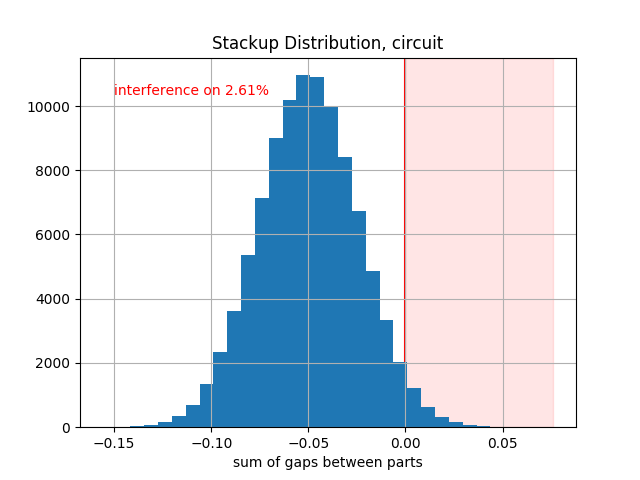
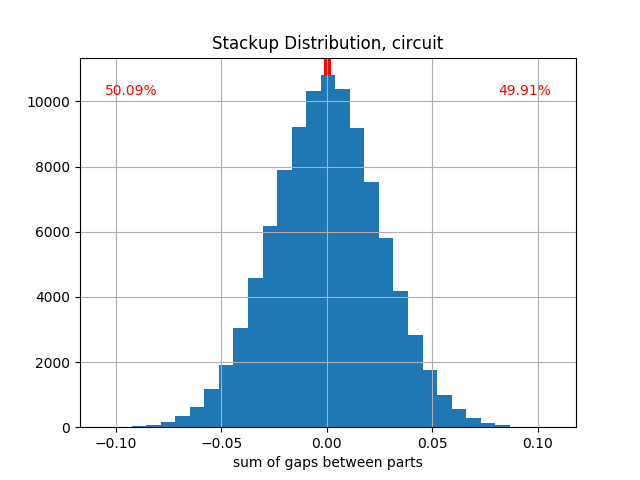
Improving documentation.

diff --git a/docs/source/usage.rst b/docs/source/usage.rst
@@ -30,10 +30,86 @@ Starting at the reference, walk around one step at a time adding the value and t
 a length of -3.0.
 
 Once the user has gotten to this point in the tolerance stack using ``tol-stack``, the distribution and
-the apparent interference should be apparent.
+the interference should be apparent.  Assuming "line-to-line" values, all of these will add up to 0.0.
 
 .. image::
    images/circuit-animation.gif
+
+Now that we know what the tolerance stackup looks like, we can start coding.  First, import the
+``tol_stack`` package components ``Part`` and ``StackPath``.
+
+.. code-block:: python
+   :linenos:
+   :emphasize-lines: 1
+
+   from tol_stack import Part, StackPath
+
+For the moment, assume that the distribution of the part variance is normal.  We will discuss other
+distributions that may commonly be encountered in manufacturing processes in another section.  We
+create each ``Part`` with the nominal dimensions and with some tolerance value.
+
+.. code-block:: python
+   :linenos:
+   :emphasize-lines: 3, 5, 6, 7
+
+   from tol_stack import Part, StackPath
+
+   size = 100000  # denotes size of the simulation
+
+   p1 = Part(name='part1', nominal_value=1.0, upper_tolerance=0.05, size=size)
+   p2 = Part(name='part2', nominal_value=2.0, upper_tolerance=0.05, size=size)
+   p3 = Part(name='part3', nominal_value=-3.0, upper_tolerance=0.05, size=size)
+
+At this point, if we wanted to see the distribution of the part variation, we could call the
+``.show_dist()`` method of ``Part``.  This parameter takes all keyword arguments accepted by
+`matplotlib.pyplot.Axes.hist() <https://matplotlib.org/3.1.1/api/_as_gen/matplotlib.axes.Axes.hist.html>`_.
+
+.. code-block:: python
+   :linenos:
+   :emphasize-lines: 9
+
+   from tol_stack import Part, StackPath
+
+   size = 100000  # denotes size of the simulation
+
+   p1 = Part(name='part1', nominal_value=1.0, upper_tolerance=0.05, size=size)
+   p2 = Part(name='part2', nominal_value=2.0, upper_tolerance=0.05, size=size)
+   p3 = Part(name='part3', nominal_value=-3.0, upper_tolerance=0.05, size=size)
+
+   p1.show_dist(density=True, bins=31)
+
+Results in:
+
+.. image::
+   images/part-distribution-normal.png
+
+Finally, we create the ``StackPath`` and add each part to it, then run the ``analyze()`` method.  Once the analysis
+is complete, we can call the ``.show_dist()`` method of the ``StackPath`` to show the percentage of units that are
+expected to fall out of tolerance.
+
+.. code-block:: python
+   :linenos:
+   :emphasize-lines: 9-11, 13, 14
+
+   from tol_stack import Part, StackPath
+
+   size = 100000  # denotes size of the simulation
+
+   p1 = Part(name='part1', nominal_value=1.0, upper_tolerance=0.05, size=size)
+   p2 = Part(name='part2', nominal_value=2.0, upper_tolerance=0.05, size=size)
+   p3 = Part(name='part3', nominal_value=-3.0, upper_tolerance=0.05, size=size)
+
+   sp.add_part(part0)
+   sp.add_part(part1)
+   sp.add_part(part2)
+
+   sp.analyze()
+   sp.show_dist(bins=31)
+
+.. image::
+   images/screenshot-circuit.png
+
+Based on the image, 50% of units are expected to crash!
 
 Max Height Stackup
 ------------------
